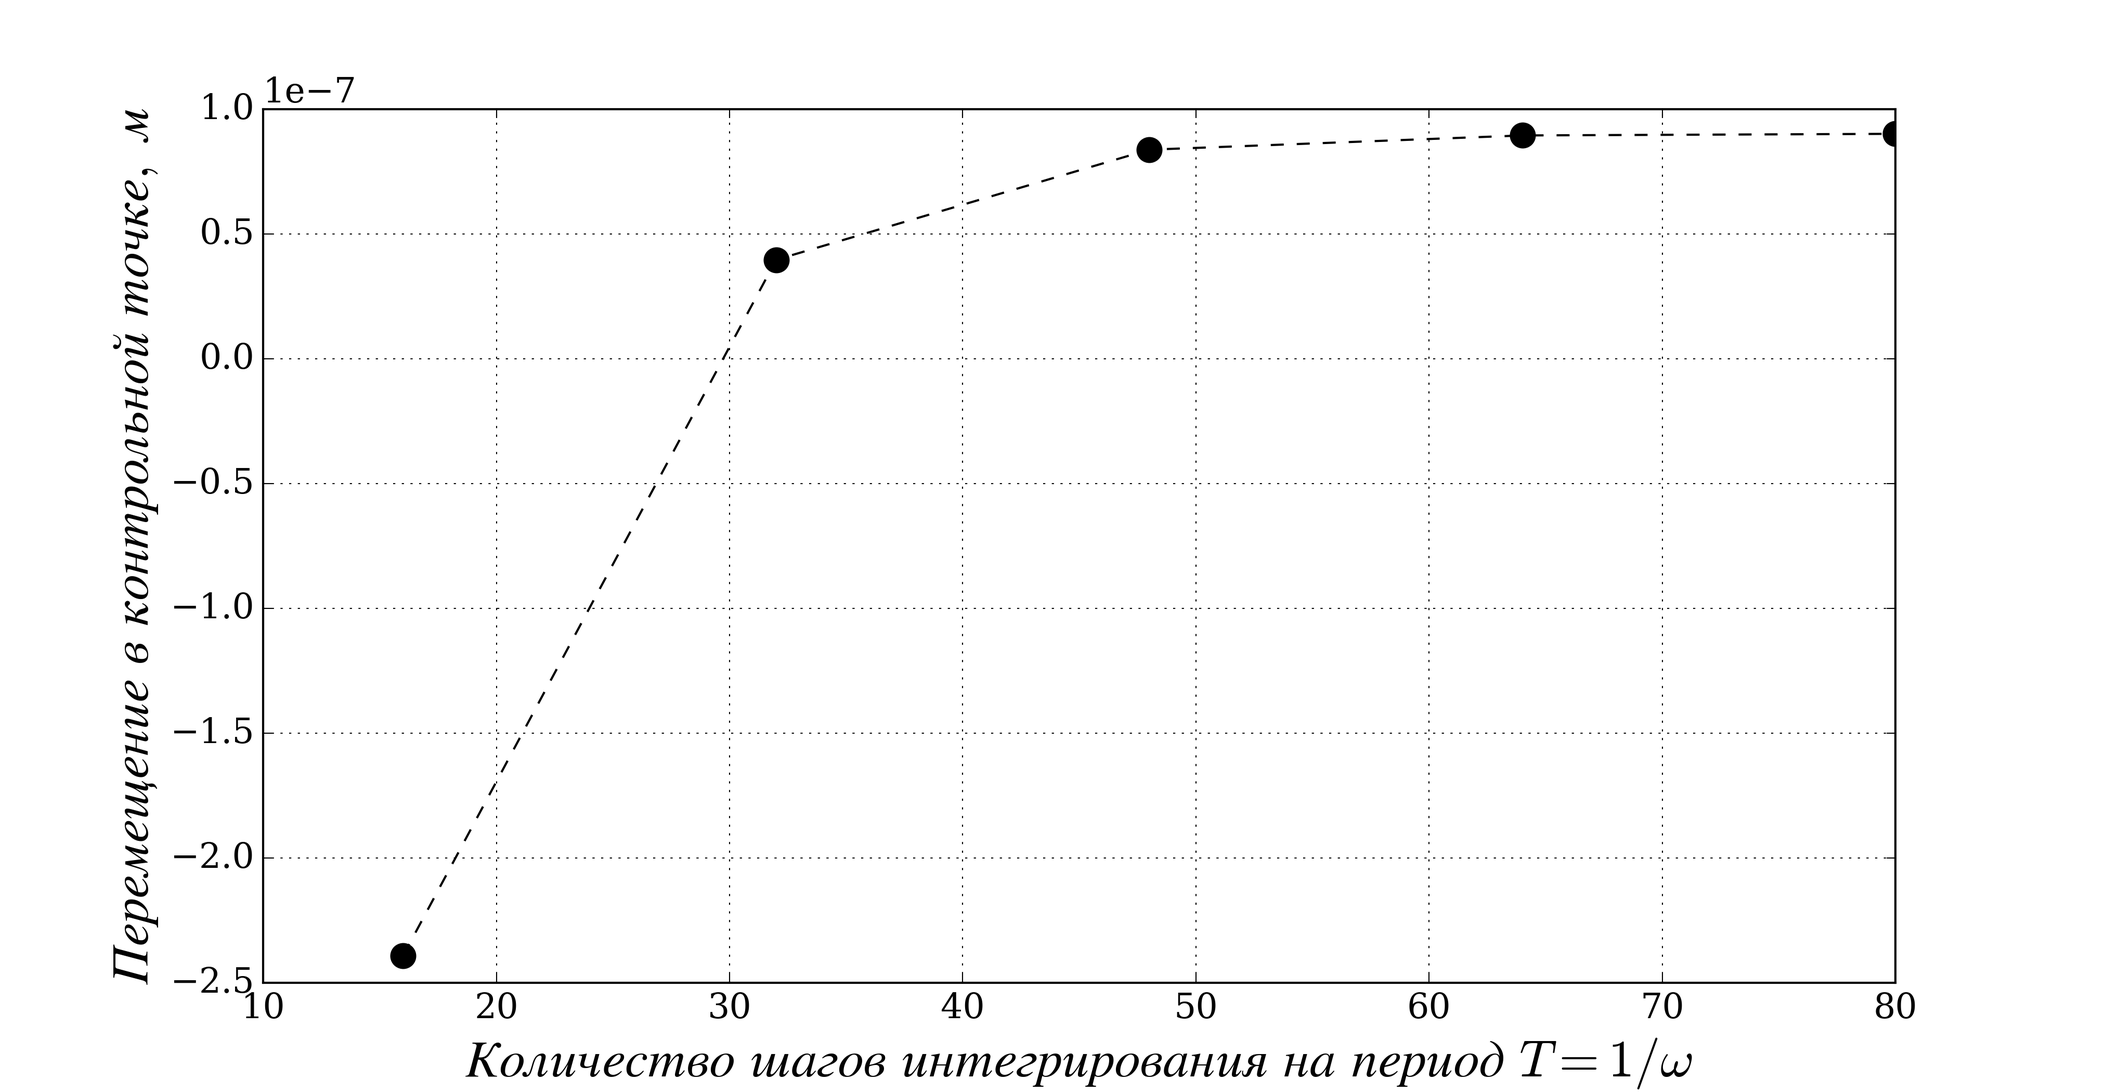
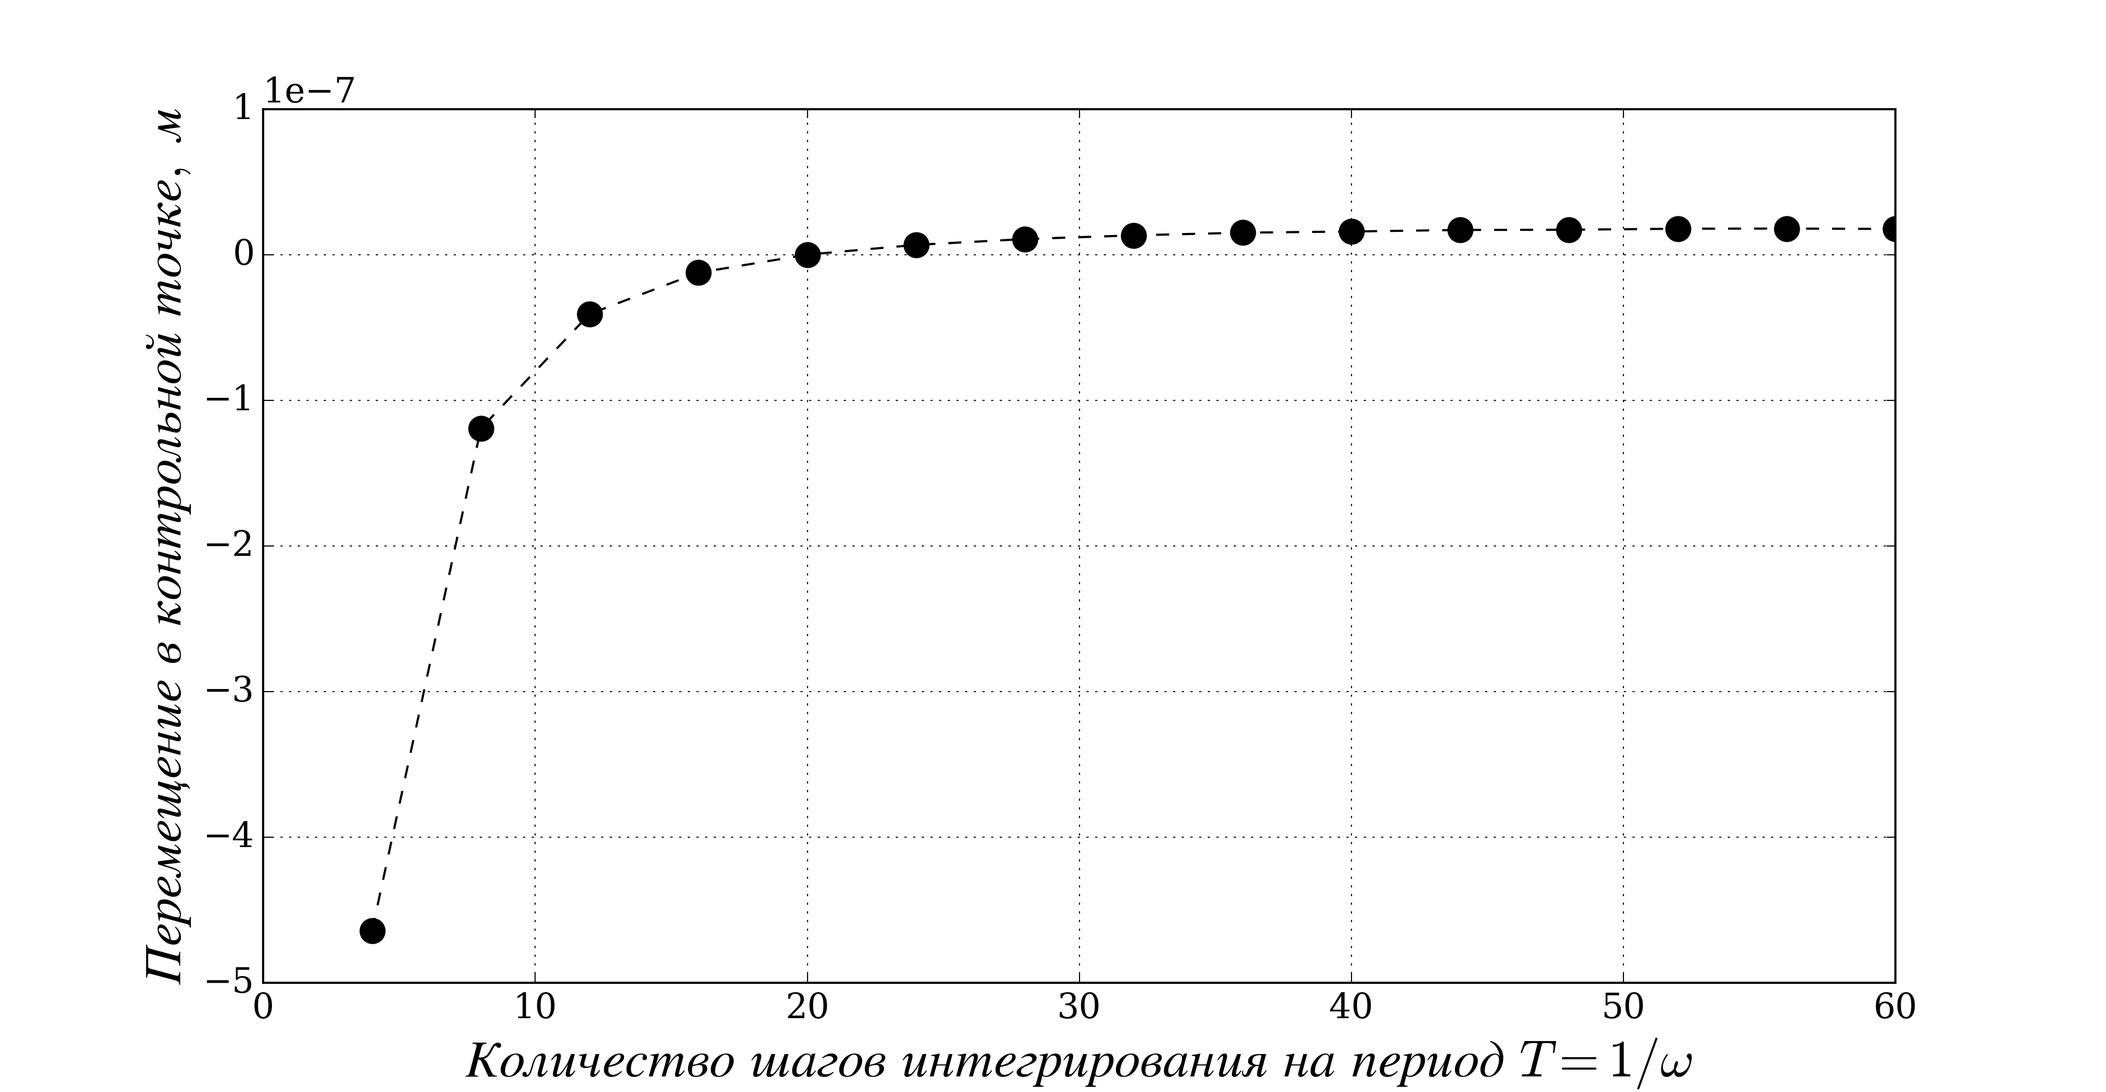
Updates from ShareLaTeX

diff --git a/Dissertation/part2.tex b/Dissertation/part2.tex
@@ -149,7 +149,6 @@ L = T - \Pi + W_m - W_e = \frac{1}{2}m \dot y^2 - mgy + \frac{1}{2}L_1 \dot e^2 
 
 Максимальное значение функции $f_{max} = \frac{u_0^2}{4 \epsilon_0 S (R \omega)^2}$ отвечает за максимальный вес твердого тела, который способен удержать электростатический подвес. Будем считать, что $mg<f_{max}$. Тогда прямая $mg$ на рис. \ref{img:pas_susp_force_theory} пересекает $f(y)$ в двух точках $y=y_1, y=y_2$. В этом случае электростатический подвес имеет два положения равновесия.
 
-
 Потенциальная энергия имеет вид (\ref{eq:pas_susp_potential}), ее график представлен на рис.  \ref{img:pas_susp_potential}. По теореме Лагранжа–Дирихле устойчивым оказывается положение равновесия $y = y_2$, положение равновесия $y=y_1$ неустойчиво.
 
 \begin{equation}
@@ -165,12 +164,15 @@ L = T - \Pi + W_m - W_e = \frac{1}{2}m \dot y^2 - mgy + \frac{1}{2}L_1 \dot e^2 
   \label{img:pas_susp_potential}
 \end{figure}
 
+Физический смысл работы пассивного подвеса заключается в том, что при удалении тела от фиксированного электрода пондеромоторная электрическая сила возрастает, возвращая тело в положение $y = y_2$. И наоборот, при приближении тела к электроду пондеромоторная электрическая сила уменьшается, становясь меньше, чем сила тяжести, и тело возвращается обратно в положение равновесия.
+
+
 \subsection{Обзор возможностей программной системы ANSYS для решения задач электромеханики. Методы определения пондеромоторных усилий в подвесах с применением численных решений ANSYS} \label{subsect2_3_2}
 
 Программная система конечно-элементного анализа ANSYS предоставляет возможность моделирования электромеханических задач несколькими способами \cite{Ansys_coupled_field}:
 \begin{enumerate}
   \item Прямое решение связанной задачи (Direct coupled-field analysis)
-  \item Использование элементов преобразователей \textit{TRANS126} (Transducer elements)
+  \item Использование электромеханических элементов-преобразователей \textit{TRANS126} (Transducer elements)
   \item Параллельное решение двух связанных задач (Multi-field analysis)
   \item Прямое разложение по собственным формам (Reduced order modelling)
 \end{enumerate}
@@ -269,9 +271,9 @@ C = C(\delta), \quad \delta = \delta_0 +u_1 - u_2,
 \end{figure}
 
 
-Как упоминалось ранее, для функционирования электромеханических элементов TRANS126 необходимо задание в них зависимости электрической емкости от зазора $C(\delta)$, где $\delta = \delta_0 + y_1 - y_2$, $\delta_0$ – номинальный зазор, $y_1, y_2$ – координаты первого и второго узлов элемента. Для расчета электрической емкости используем макрос \textit{CMATRIX}, позволяющий вычислить емкость между двумя фиксированными электродами. Для этого построим конечно-элементную модель эквивалентную конденсатору с площадью обкладок каждого электрода $S = 50\ \text{см}^2$. Для построения модели используем двумерные 8-ми узловые электростатические элементы \textit{PLANE121} с одной степенью свободы VOLT в каждом узле.
+Как упоминалось ранее, для функционирования электромеханических элементов \textit{TRANS126} необходимо задание в них зависимости электрической емкости от зазора $C(\delta)$, где $\delta = \delta_0 + y_1 - y_2$, $\delta_0$ – номинальный зазор, $y_1, y_2$ – координаты первого и второго узлов элемента. Для расчета электрической емкости используем макрос \textit{CMATRIX}, позволяющий вычислить емкость между двумя фиксированными электродами. Для этого построим конечно-элементную модель эквивалентную конденсатору с площадью обкладок каждого электрода $S = 50\ \text{см}^2$. Для построения модели используем двумерные 8-ми узловые электростатические элементы \textit{PLANE121} с одной степенью свободы VOLT в каждом узле.
 
-Итерационно в 20 шагов (именно столько точек на графике «зазор–емкость» способен хранить элемент) перестраиваем расчетную модель, изменяя на каждом шаге зазор между обкладками, исследуем зависимость электрической емкости от зазора на промежутке $1\ \text{мкм} < \delta < 10\ \text{мкм}$, напомним, что номинальный зазор $\delta_0 = 3\ \text{мкм}$.
+Итерационно в 20 шагов (именно столько точек на зависимости «зазор–емкость» способен хранить элемент \textit{TRANS126}) перестраиваем расчетную модель, изменяя на каждом шаге зазор между обкладками, исследуем зависимость электрической емкости от зазора на промежутке $1\ \text{мкм} < \delta < 10\ \text{мкм}$, напомним, что номинальный зазор $\delta_0 = 3\ \text{мкм}$.
 
 
 \begin{figure}[ht] 
@@ -281,33 +283,44 @@ C = C(\delta), \quad \delta = \delta_0 +u_1 - u_2,
   \label{img:pas_susp_trans126_cap_v_gap}
 \end{figure}
 
+Прежде чем производить динамический анализ убедимся в работоспособности пассивного подвеса с текущими параметрами, т.~е. в том, что в положении $y = \delta_0 = 3\ \text{мкм}$ с учетом допущений, сделанных в разделе \ref{subsect2_2_1}, пассивный подвес способен удерживать тело. Это условие выполнится, если зависимость пондеромоторной силы, действующей на тело в подвесе, от зазора будет иметь резонансный характер, т.~е. возрастать при отдалении тела от фиксированного электрода и убывать при его приближении к электроду. Построим график зависимости пондеромоторной электрической силы от зазора между фиксированным электродом  и твердым телом (рис. \ref{img:pas_susp_trans126_force_v_gap}).
 
-Результаты динамического анализа расчетной модели методом Ньютона-Рафсона представлены на рис. \ref{img:pas_susp_trans126_sol}.
+Нетрудно видеть, что, как и на рис. \ref{img:active_susp_force_plot}, зависимость электрической силы от зазора на рис. \ref{img:pas_susp_trans126_force_v_gap} имеет резонансный характер. Точка пересечения графика силы с прямой силы тяжести $mg = 6.25\ \text{г} \cdot 9.8 \frac{\text{м}}{\text{с}^2}$ имеет абсциссу $3\ \text{мкм}$, а значит выбор параметров подвеса был осуществлен верно.
 
 
 \begin{figure}[ht] 
   \centering
-  \includegraphics [scale=0.5] {pas_susp_trans126_sol}
-  \caption{Результат конечно-элементного расчета методом прямого решения связанной задачи с фиксированным твердом телом в сравнении с численным решением ОДУ (\ref{eq:pas_susp_motion})}
-  \label{img:pas_susp_trans126_sol}
+  \includegraphics [scale=0.5] {pas_susp_trans126_force_v_gap}
+  \caption{График зависимости емкости от зазора $C(\delta)$, полученной методом конечных элементов, в сравнении с формулой емкости для плоского конденсатора}
+  \label{img:pas_susp_trans126_force_v_gap}
 \end{figure}
 
-
-
+Результаты динамического анализа конечно-элементной расчетной модели подвеса методом Ньютона-Рафсона представлены далее в разделе \ref{sect2_3_1}. Прежде, убедимся в сходимости численного конечно-элементного решения, построив график зависимости вертикальной координаты твердого тела $y$ от количества шагов интегрирования на один период источника напряжения $T = 1/\omega$. График сходимости представлен на рис. \ref{img:pas_susp_trans126_conv}. Исходя из результата, выберем шаг интегрирования $dt_{max}=\frac{1}{32} \cdot T$.
+ 
 \begin{figure}[ht] 
   \centering
   \includegraphics [scale=0.5] {pas_susp_trans126_conv}
-  \caption{График сходимости метода с использованием элемента–преобразователя $y(N)$, где $N$ – количество шагов интегрирования на один период $T=1/\omega$.}
+  \caption{График сходимости численного конечно-элементного решения в модели с электромеханическим элементом \textit{TRANS126}}
   \label{img:pas_susp_trans126_conv}
 \end{figure}
-
-
 
 
 %\newpage
 %============================================================================================================================
 \section{Анализ полученных уравнений методом многих масштабов} \label{sect2_3}
 
+Ранее были получены аналитические оценки поведения решения системы уравнений (\ref{eq:pas_susp_motion}). Уравнение (\ref{eq:pas_susp_sol_1}) получено с нестрогим допущением, что частота источника напряжения $\delta$ много больше частоты механических колебаний твердого тела. Для оценки корректности введенного допущения построим асимптотическое решение системы (\ref{eq:pas_susp_motion}) в нулевом и первом приближениях. 
 
-\section{Сравнение результатов в задаче динамики одномерного электрического подвеса с явным моделированием связной задачи в ANSYS}
+
+
+\section{Сравнение результатов в задаче динамики одномерного электрического подвеса с явным моделированием связной задачи в ANSYS} \label{sect2_3_1}
+
+
+% \begin{figure}[ht] 
+%   \centering
+%   \includegraphics [scale=0.5] {pas_susp_trans126_sol}
+%   \caption{Результат конечно-элементного расчета методом прямого решения связанной задачи с фиксированным твердом телом в сравнении с численным решением ОДУ (\ref{eq:pas_susp_motion})}
+%   \label{img:pas_susp_trans126_sol}
+% \end{figure}
+
 

diff --git a/Dissertation/title.tex b/Dissertation/title.tex
@@ -67,7 +67,7 @@
 \bigskip
 
 \hfill\begin{minipage}{0.4\textwidth}
-  Научный руководитель: асп.\\
+  Научный руководитель: асс.\\
   \underline{\hspace{\ML}} И.\,А.~Попов\\
   «\underline{\hspace{0.7cm}}» \underline{\hspace{\ML}} \thesisYear\ г.
 \end{minipage}%
